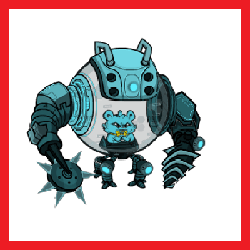
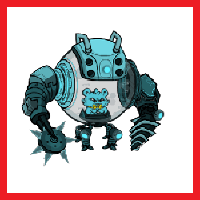
resize the sprite

Changed region(s): [[0.09, 0.15, 0.81, 0.84], [0.03, 0.03, 0.99, 0.99], [0.69, 0.36, 0.75, 0.39]]

diff --git a/fieldObject/monster/monster.js b/fieldObject/monster/monster.js
@@ -4,7 +4,7 @@ class MonsterSide{
         this.monsters = [];
         for (var i = 0; i < 3; i++){
             var xPos = Smash.spriteSize*i + 100;
-            var yPos = 1200;
+            var yPos = 1000;
             var spr = game.add.sprite(xPos, yPos, 'b_pockitz');
             this.monsters[i] = new Monster(game, spr,  20000, 1000, 10,  xPos, yPos, i);
         }

diff --git a/main.js b/main.js
@@ -10,7 +10,7 @@ Smash = {
             return !x && !y && !place;
         }
     },
-    spriteSize : 300
+    spriteSize : 250
 }
 Smash.Play = function (game) {
     //do nothing for now
